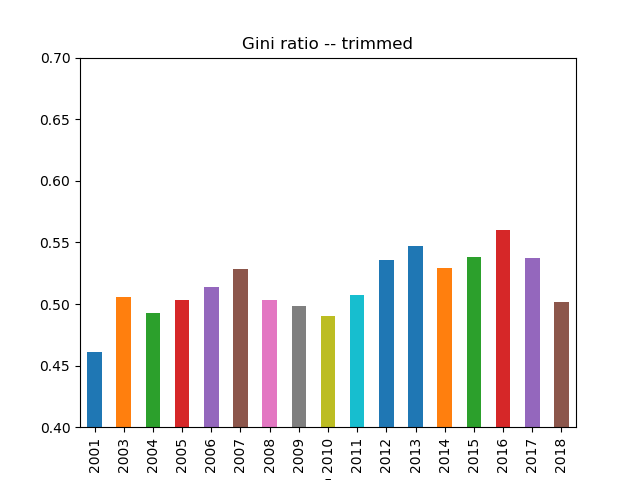
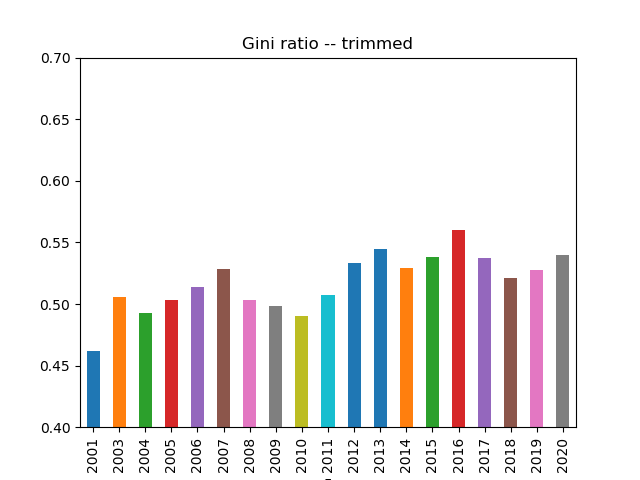
refactor

Changed region(s): [[0.125, 0.4688, 0.9062, 1.0]]

diff --git a/pledges.py b/pledges.py
@@ -4,7 +4,6 @@ from scipy import stats
 import matplotlib.pyplot as plt
 import pdb
 import argparse
-from numba import jit
 
 def destring(x):
     try:
@@ -49,7 +48,6 @@ def binsums(s, bins=10):
     sums, edges, binnumber = stats.binned_statistic(s, s, statistic='sum', bins=bins)
     return sums
 
-
 def counts(s, bins=10):
     counts, edges, binnumber = stats.binned_statistic(s, s, statistic='count', bins=bins)
     return counts
@@ -84,7 +82,7 @@ def run(tdf, trim=False):
         tdf = tdf.apply(reducehighest)
         tsuffix = ' -- trimmed'
     else:
-        tsuffix = '-- untrimmed'
+        tsuffix = ' -- untrimmed'
     maxs = tdf.max()
     print("maxes{}:".format(tsuffix))
     print(maxs)
@@ -102,14 +100,11 @@ def run(tdf, trim=False):
     pctbiggest = (maxs / sums) * 100
     totchanges = sums.pct_change().dropna() * 100
 
-
-
-
     bs = pd.DataFrame([
         binsums(
             tdf[col],
             bins=quantiles[col]
-        )
+            )
         for col in tdf.columns
         ],
         index = columns
@@ -181,8 +176,8 @@ def run(tdf, trim=False):
     reupnums = reupdf.apply(lambda x: x.value_counts())
     ax = reupnums.T.plot(
         kind='bar',
-        stacked=True,
-        title="New/renewed/fallen off, absolute number{}".format(tsuffix),
+        # stacked=True,
+        title="New/renewed/fallen off{}".format(tsuffix),
         figsize=(9,5),
     )
     box = ax.get_position()
@@ -258,7 +253,7 @@ def run(tdf, trim=False):
         kind='bar',
         stacked=True,
         legend=False,
-        title="Percent of total value by decile{}".format(tsuffix)
+        title="Percent of total by value decile{}".format(tsuffix)
     )
     # plt.show()
     # plt.savefig('pics/pctofvalue.png')
@@ -269,7 +264,7 @@ def run(tdf, trim=False):
         kind='bar',
         stacked=True,
         legend=False,
-        title="Number of pledges by decile{}".format(tsuffix)
+        title="Number of pledges by value decile{}".format(tsuffix)
     )
     # plt.show()
     plt.savefig('pics/numberbydecile{}.png'.format(tsuffix))
@@ -279,7 +274,7 @@ def run(tdf, trim=False):
         kind='bar',
         stacked=True,
         legend=False,
-        title="Percent of number of pledges by decile{}".format(tsuffix)
+        title="Percent of pledge number by value decile{}".format(tsuffix)
     )
     # plt.show()
     plt.savefig('pics/pctofnumber{}.png'.format(tsuffix))
@@ -289,7 +284,7 @@ def run(tdf, trim=False):
     medians.plot(
         kind='bar',
         legend=False,
-        title="Median pledge (2017 dollars){}".format(tsuffix),
+        title="Median pledge {}".format(tsuffix),
         # ylim=(0, 2.0 * medians.mean())
         ylim = (0, 3000.0)
     )
@@ -334,7 +329,7 @@ def run(tdf, trim=False):
     sums.plot(
         kind='bar',
         legend=False,
-        title="Total pledging (2017 dollars){}".format(tsuffix),
+        title="Total pledging {}".format(tsuffix),
         ylim=(0, 700000.0)
     )
     ax2 = ax.twinx()
@@ -346,12 +341,10 @@ def run(tdf, trim=False):
     plt.close('all')
 
     bins=np.logspace(1.0, 5.0, num=15)
-    # bins=np.logspace(1.0, 12, num=24, base=np.e)
     for year, s in tdf.iteritems():
         syear = str(year)
         ax = s.plot.hist(
             title=syear + tsuffix,
-            # bins=15
             bins=bins,
             logx=True,
             ylim=(0,50),
@@ -359,7 +352,8 @@ def run(tdf, trim=False):
         )
         ax.set_ylabel('Number of pledges')
         ax.set_xlabel('Amount of pledge')
-        plt.savefig('hists/{}{}.png'.format(
+        plt.savefig('hists/{}/{}{}.png'.format(
+            'trimmed' if trim else 'untrimmed',
             syear,
             tsuffix
         ))
@@ -381,15 +375,6 @@ def run(tdf, trim=False):
 
     for year, s in valbinned.iterrows():
         syear = str(year)
-        # ax = s.plot.bar(
-        #     title=syear + ' -- value ' + tsuffix,
-        #     logx=True,
-        #     width=np.diff(bins),
-        #     ylim=(0,valbinned.max().max()),
-        #     xlim=(1, 120000),
-        # )
-        # ax.set_ylabel('Total value of pledges')
-        # ax.set_xlabel('Amount of pledge')
         fig, ax = plt.subplots()
         ax.bar(
             s.index,
@@ -403,7 +388,8 @@ def run(tdf, trim=False):
         ax.set_title(syear + ' -- value ' + tsuffix)
         # ax.set_ylim(0, valbinned.max().max())
         ax.set_ylim(0, 50)
-        plt.savefig('valhist/{} -- value {}.png'.format(
+        plt.savefig('valhist/{}/{} -- value {}.png'.format(
+            'trimmed' if trim else 'untrimmed',
             syear,
             tsuffix
         ))
@@ -448,16 +434,12 @@ if __name__ == '__main__':
         pdb.set_trace()
 
     df = pd.read_excel(
-        # 'Y18 Pledges for MJS.xls',
-        # sheetname='Y17 & Y18',
-        # 'MJS File 12-14-17.xlsx',
-        'MJS File 1-29-18.xlsx',
-        # 'MJS File 12-14-17-no-outliers.xlsx',
-        sheetname='Sheet1',
+        '2020pledges.xls',
+        sheetname='Y19 & Y20',
         header=None
     )
 
-    # These tags need to be put into the spreadsheet, in column A,
+    # These tags -- 'years' etc. -- need to be put into the spreadsheet, in column A,
     # to show the program where line-item data begins and ends
 
     hrow = df[df[0] == 'years']
@@ -470,29 +452,19 @@ if __name__ == '__main__':
     df = df.iloc[dstartrow:dendrow, columns.index].fillna(0)
     df.columns = columns
     df.reset_index(drop=True)
-    print("totals un-adjusted {}:")
+    print("totals un-adjusted:")
     print(df.sum()),
 
 
     df = df.applymap(destring)
-    # df.applymap(float)
 
     inflation = pd.read_excel(
         'inflation.xlsx',
         index_col=0
     )
     avgs = inflation['Avg'].loc[columns.values]
-    reflators = avgs[2017] / avgs
-    # df = df * reflators
+    reflators = avgs[2020] / avgs
     df = df.multiply(reflators)
     tdf = df.replace(0, np.nan)
     for t in (False, True):
         run(tdf, trim=t)
-
-
-
-
-
-
-
-

diff --git a/inequality.py b/inequality.py
@@ -1,0 +1,7 @@
+import pandas as pd
+import numpy as np
+from scipy import stats
+import matplotlib.pyplot as plt
+import pdb
+import argparse
+
